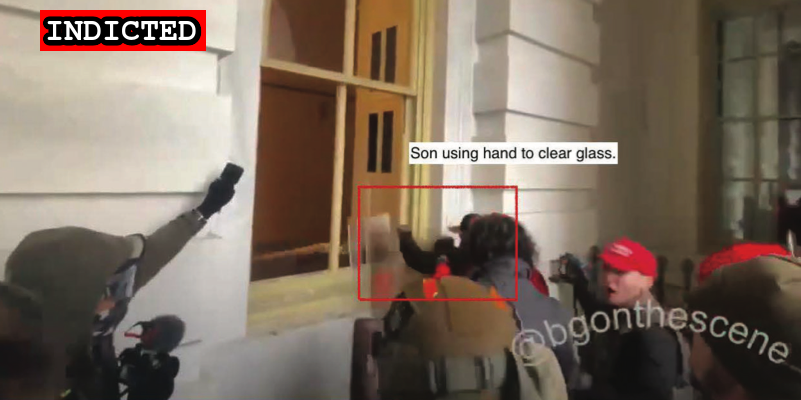
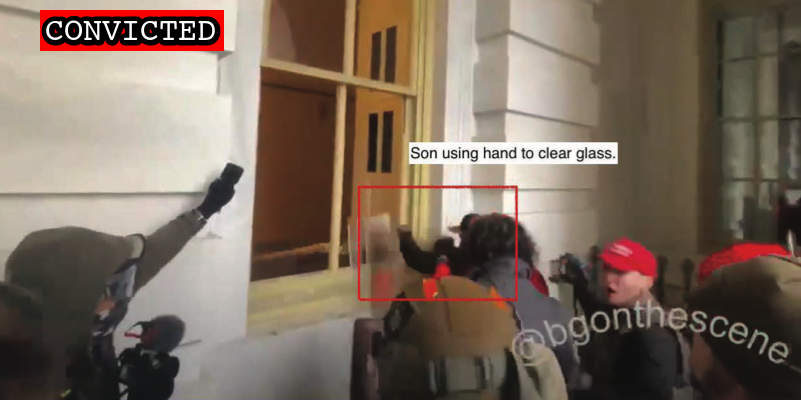
Seefried convictions

Changed region(s): [[0.0312, 0.0, 0.2809, 0.15]]

diff --git a/docs/_suspects/hunter-seefried.md b/docs/_suspects/hunter-seefried.md
@@ -4,18 +4,18 @@ lastName: Seefried
 hashtag: HunterSeefried
 aka:
 residence: Delaware
-status: Indicted
+status: Convicted
 date: 2021-01-14
 charged: 2021-01-14
 indicted: 2021-04-07
-convicted:
+convicted: 2022-06-15
 acquitted:
 sentenced:
 dismissed:
 deceased:
-plea_hearing:
+plea_hearing: 2022-06-15
 trial_date: 2022-06-13
-sentencing:
+sentencing: 2022-09-16
 age: 23
 occupation:
 affiliations:

diff --git a/docs/_suspects/kevin-seefried.md b/docs/_suspects/kevin-seefried.md
@@ -4,18 +4,18 @@ lastName: Seefried
 hashtag: KevinSeefried
 aka:
 residence: Delaware
-status: Indicted
+status: Convicted
 date: 2021-01-14
 charged: 2021-01-14
 indicted: 2021-04-07
-convicted:
+convicted: 2022-06-15
 acquitted:
 sentenced:
 dismissed:
 deceased:
-plea_hearing:
+plea_hearing: 2022-06-15
 trial_date: 2022-06-13
-sentencing:
+sentencing: 2022-09-16
 age: 51
 occupation:
 affiliations:
